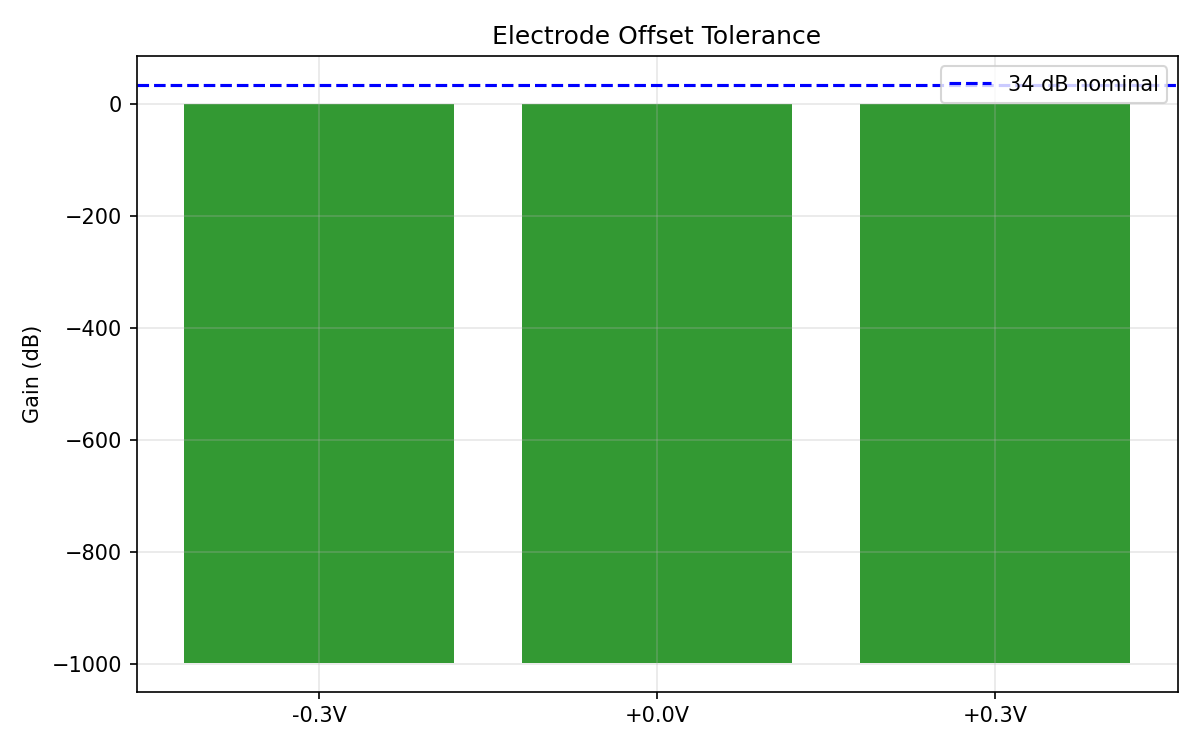
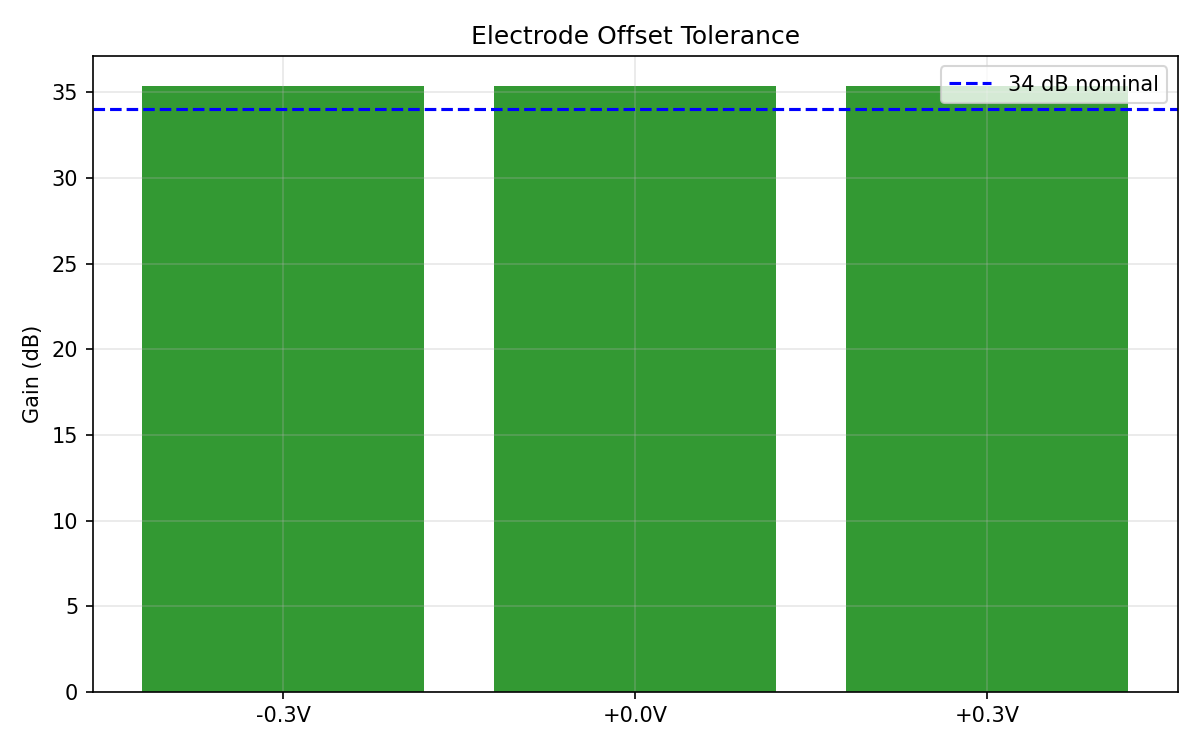
inamp: fix TB6 electrode offset test, add DC gain plot
- TB6 now uses AC analysis with DC offset (was incorrectly using OP)
- All 3 electrode offsets (-300/0/+300 mV) show 35.3 dB gain
- Added DC operating point plot (dc_gain.png)
- All results unchanged: score=1.0, PVT 15/15

diff --git a/blocks/inamp/evaluate.py b/blocks/inamp/evaluate.py
@@ -336,12 +336,29 @@ print i(Vdd)
         gain_db = 20 * math.log10(abs(gain)) if abs(gain) > 0 else -999
         print(f"  Voutp={voutp:.4f}V, Voutn={voutn:.4f}V")
         print(f"  Vout_diff={vout_diff*1e3:.3f} mV")
-        print(f"  Gain = {gain:.1f} V/V = {gain_db:.1f} dB")
+        print(f"  Gain = {gain:.1f} V/V = {gain_db:.1f} dB (DC=0 expected for CCIA)")
         print(f"  Power = {power_uw:.1f} uW" if power_uw else "  Power = N/A")
+
+        # Plot operating point
+        fig, ax = plt.subplots(figsize=(8, 5))
+        labels = ['Voutp', 'Voutn', 'VCM']
+        values = [voutp, voutn, VCM]
+        colors = ['steelblue', 'coral', 'gray']
+        ax.bar(labels, values, color=colors, alpha=0.8)
+        ax.axhline(y=0.2, color='red', linestyle='--', alpha=0.3, label='Output range')
+        ax.axhline(y=1.6, color='red', linestyle='--', alpha=0.3)
+        ax.axhline(y=VCM, color='green', linestyle='--', alpha=0.5, label=f'VCM={VCM}V')
+        ax.set_ylabel('Voltage (V)')
+        ax.set_title(f'DC Operating Point — Power: {power_uw:.1f} uW')
+        ax.set_ylim([0, 1.8])
+        ax.legend()
+        ax.grid(True, alpha=0.3)
+        plt.tight_layout()
+        plt.savefig(os.path.join(PLOT_DIR, 'dc_gain.png'), dpi=150)
+        plt.close()
     else:
         gain_db = None
         print("  WARNING: Could not parse DC operating point")
-        # Print stdout for debugging
         for line in stdout.splitlines()[-20:]:
             print(f"    {line}")
 
@@ -692,20 +709,23 @@ def tb6_electrode_offset():
     offsets = [-0.3, 0, 0.3]
 
     for dc_offset in offsets:
-        vin_diff = 1e-3
         extra = f"""
-Vinp inp 0 {VCM + dc_offset + vin_diff/2}
-Vinn inn 0 {VCM + dc_offset - vin_diff/2}
+* AC differential input on top of DC electrode offset
+Vinp inp 0 dc {VCM + dc_offset} ac 0.5
+Vinn inn 0 dc {VCM + dc_offset} ac -0.5
 """
-        control = """
+        control = f"""
 .control
 op
-print v(voutp) v(voutn) v(voutp)-v(voutn)
+print v(voutp) v(voutn)
+ac dec 20 1 100k
+wrdata _tb6_eo_{dc_offset:.1f}.dat v(voutp)-v(voutn)
 .endc
 """
         netlist = make_netlist(include_chopper=False, extra_sources=extra, control=control)
         stdout, stderr, rc = run_ngspice(netlist, f'tb6_eo_{dc_offset:.1f}')
 
+        # Check output CM from OP
         voutp = None
         voutn = None
         for line in stdout.splitlines():
@@ -721,16 +741,32 @@ print v(voutp) v(voutn) v(voutp)-v(voutn)
                 except:
                     pass
 
+        # Get gain from AC data
+        data = read_wrdata(f'_tb6_eo_{dc_offset:.1f}.dat')
+        gain_db = -999
+        if data is not None and len(data) > 3:
+            freqs = data[:, 0]
+            if data.shape[1] >= 3:
+                mags = np.sqrt(data[:, 1]**2 + data[:, 2]**2)
+            else:
+                mags = np.abs(data[:, 1])
+            lf_idx = np.argmin(np.abs(freqs - 10.0))
+            lf_gain = mags[lf_idx]
+            if lf_gain > 0:
+                gain_db = 20 * math.log10(lf_gain)
+
+        saturated = False
         if voutp is not None and voutn is not None:
-            vout_diff = voutp - voutn
-            gain = vout_diff / vin_diff
-            gain_db = 20 * math.log10(abs(gain)) if abs(gain) > 0 else -999
             saturated = voutp < 0.1 or voutp > 1.7 or voutn < 0.1 or voutn > 1.7
-            results[dc_offset] = {'gain_db': gain_db, 'voutp': voutp, 'voutn': voutn, 'sat': saturated}
-            print(f"  Offset={dc_offset:+.1f}V: gain={gain_db:.1f}dB, Voutp={voutp:.3f}, Voutn={voutn:.3f}, {'SAT!' if saturated else 'OK'}")
-        else:
-            results[dc_offset] = {'gain_db': -999, 'voutp': 0, 'voutn': 0, 'sat': True}
-            print(f"  Offset={dc_offset:+.1f}V: FAILED")
+
+        results[dc_offset] = {
+            'gain_db': gain_db,
+            'voutp': voutp if voutp else 0,
+            'voutn': voutn if voutn else 0,
+            'sat': saturated
+        }
+        status = 'SAT!' if saturated else 'OK'
+        print(f"  Offset={dc_offset:+.1f}V: gain={gain_db:.1f}dB, Voutp={voutp:.3f}, Voutn={voutn:.3f}, {status}")
 
     # Plot
     fig, ax = plt.subplots(figsize=(8, 5))
